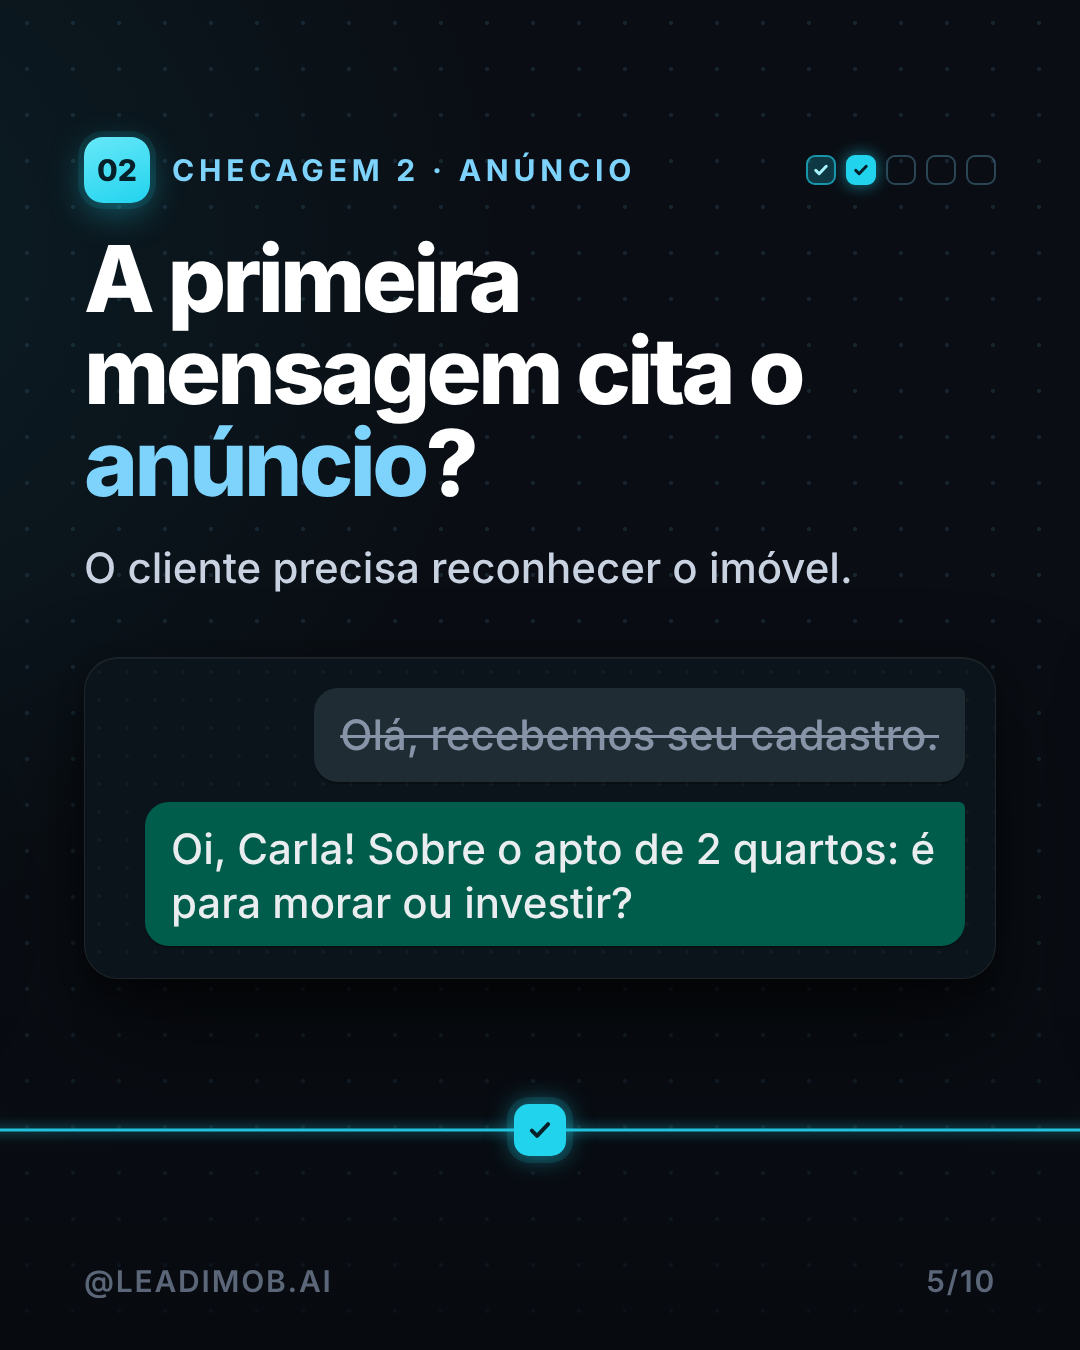
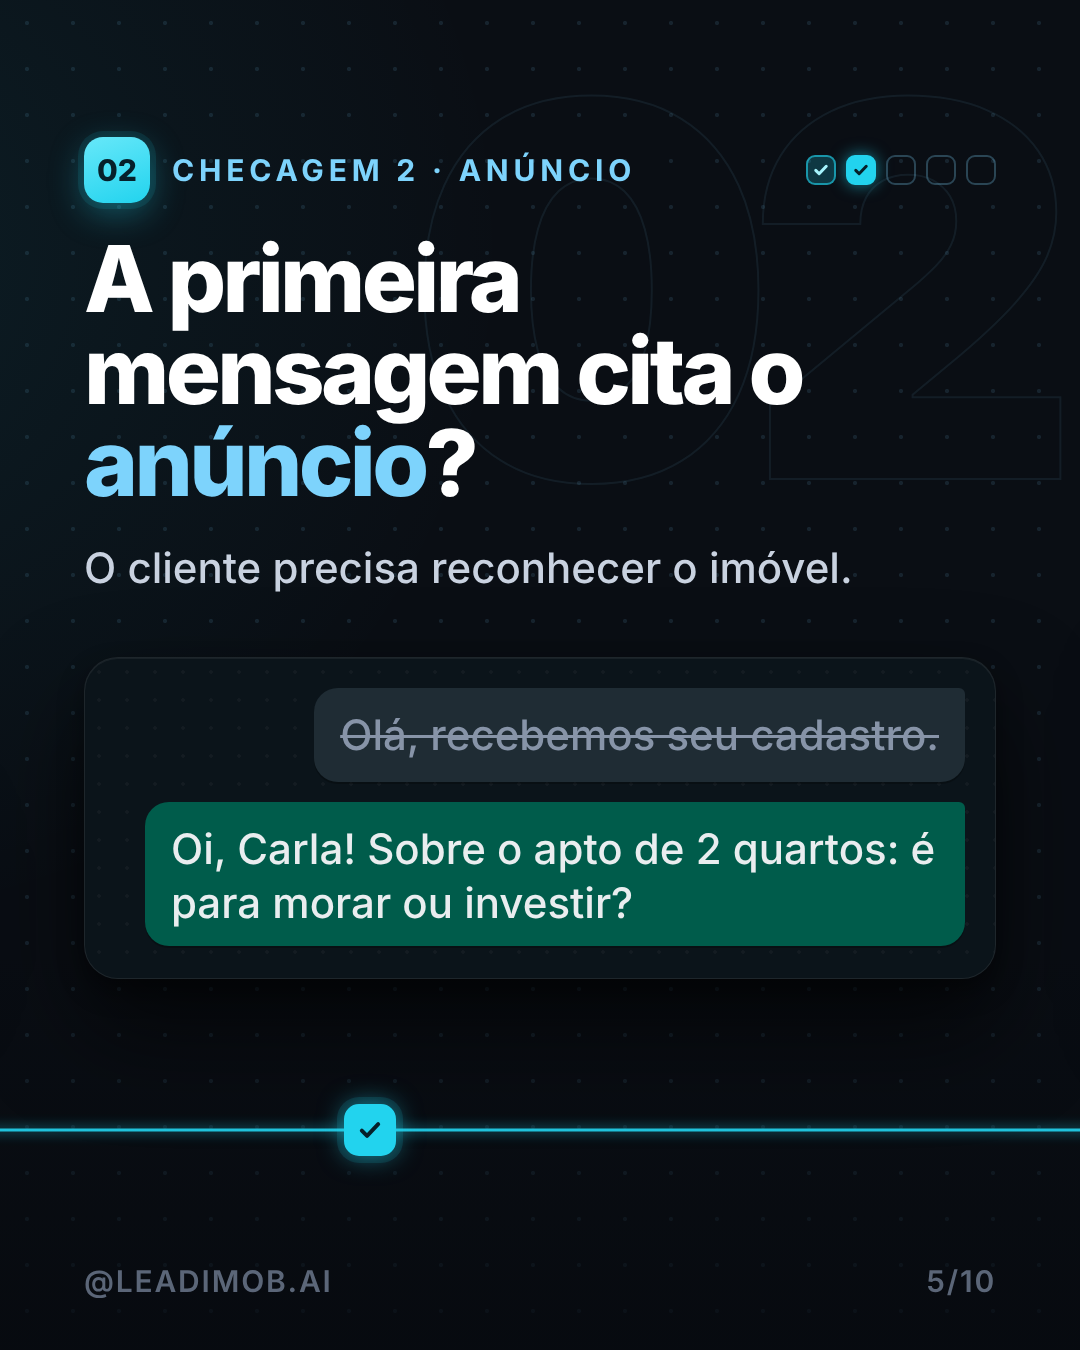
10/10: carrossel rodada 4 (em crítica final)
Claude-Session: https://claude.ai/code/session_016a8cwUDTswJAyhXi9pdNNX

Changed region(s): [[0.4583, 0.8089, 0.55, 0.8711], [0.3056, 0.8089, 0.3972, 0.8711]]

diff --git a/instagram/2026-10-10/src/c1-index.html b/instagram/2026-10-10/src/c1-index.html
@@ -120,11 +120,12 @@ body{background:#0A0E14;width:10800px;height:1350px;overflow:hidden;font-family:
 .ci:first-child{border-top:0}
 .ci .n{width:50px;height:50px;border-radius:14px;border:3px solid rgba(125,211,252,.55);display:flex;align-items:center;justify-content:center;font:800 30px/1 IN;color:#7DD3FC;flex:none}
 /* chat final */
-.chat{width:912px;padding:0 0 30px}
-.chat .top{display:flex;align-items:center;gap:20px;padding:16px 30px;background:#1F2C34;margin-bottom:26px}
+.chat{width:912px;padding:28px 0 16px}
+.chat .top{display:flex;align-items:center;gap:20px;padding:12px 30px;background:#1F2C34;margin-bottom:26px}
 .chat .top b{display:block;font:700 36px/1.1 IN;color:#E9EDEF}
 .chat .top em{display:block;font:500 30px/1.2 IN;color:#8696A0;font-style:normal}
-.chat .bub{font-size:38px;margin:0 30px 16px}
+.chat .bub{font-size:36px;margin:0 30px 14px;padding:16px 24px 12px}
+.chat .bout{margin-left:auto}
 </style></head><body><div id="strip">
 <div class="bg"></div>
 <div class="glow" style="left:-380px;top:-460px;width:1500px;height:1500px;background:radial-gradient(circle,rgba(37,99,235,.30),transparent 62%)"></div>
@@ -142,12 +143,12 @@ body{background:#0A0E14;width:10800px;height:1350px;overflow:hidden;font-family:
   <div class="ttl" style="margin:0"><div class="num"><svg width="32" height="32" viewBox="0 0 24 24" fill="none" stroke="#06202A" stroke-width="2.6" stroke-linecap="round" stroke-linejoin="round"><path d="M4 6h16M7 12h10M10 18h4"/></svg></div><div class="kick">Checklist</div></div>
   <span class="chip cy"><svg width="24" height="28" viewBox="0 0 20 24"><path d="M3 2h14v20l-7-5.500L3 22z" fill="#A5F3FC"/></svg>Salve este post</span>
  </div>
- <div class="card form" id="a-form" style="margin-top:56px">
+ <div class="card form" style="margin-top:56px">
   <div class="lab">Formulário do anúncio</div>
   <div class="fld"><b>Nome</b><span>Carla</span></div>
   <div class="btn">Enviar <svg width="30" height="30" viewBox="0 0 24 24"><path d="M3 12 L21 3 L14 21 L11 13 Z" fill="#fff"/></svg></div>
  </div>
- <div class="h1" style="margin-top:64px;font-size:104px;line-height:1.0">O lead preencheu.<br>Alguém <span style="color:transparent;-webkit-text-stroke:3px #7DD3FC">respondeu?</span></div>
+ <div class="h1" style="margin-top:64px;font-size:104px;line-height:1.0">O lead preencheu.<br>Alguém <span class="hl">respondeu?</span></div>
  <div class="p" style="margin-top:32px;font-size:42px;color:#E2E8F0">5 checagens para ver onde o lead do formulário trava.</div>
  <div class="foot"><span>@LEADIMOB.AI</span><span style="color:#7DD3FC">ARRASTE →</span></div></div>
 
@@ -180,7 +181,7 @@ body{background:#0A0E14;width:10800px;height:1350px;overflow:hidden;font-family:
  <div class="foot"><span>@LEADIMOB.AI</span><span>3/10</span></div></div>
 
 <!-- 4 checagem 1 -->
-<div class="sl" style="left:3240px;padding-top:216px">
+<div class="sl" style="left:3240px;padding-top:216px"><div class="ghost" style="-webkit-text-stroke-color:rgba(125,211,252,.08)">01</div>
  <div class="ttl" style="width:912px"><div class="num">01</div><div class="kick">Checagem 1 · aviso</div><div class="prog"><i class="on"><svg width="18" height="18" viewBox="0 0 24 24"><path d="M5 12.500l4.500 4.500L19 7" stroke="#06202A" stroke-width="4" fill="none" stroke-linecap="round" stroke-linejoin="round"/></svg></i><i></i><i></i><i></i><i></i></div></div>
  <div class="h2">O lead chega a <span class="hl">alguém</span> na hora?</div>
  <div class="p">Formulário enviado vira aviso no celular, não planilha para baixar depois.</div>
@@ -190,10 +191,10 @@ body{background:#0A0E14;width:10800px;height:1350px;overflow:hidden;font-family:
   <div style="font:600 38px/1.2 IN;color:#fff;margin-top:14px">Carla · apto de 2 quartos</div></div>
  </div>
  <div class="foot"><span>@LEADIMOB.AI</span><span>4/10</span></div></div>
-<div class="gate" style="left:3780px"><i><svg width="28" height="28" viewBox="0 0 24 24"><path d="M5 12.500l4.500 4.500L19 7" stroke="#06202A" stroke-width="3.4" fill="none" stroke-linecap="round" stroke-linejoin="round"/></svg></i></div>
+<div class="gate" style="left:3440px"><i><svg width="28" height="28" viewBox="0 0 24 24"><path d="M5 12.500l4.500 4.500L19 7" stroke="#06202A" stroke-width="3.4" fill="none" stroke-linecap="round" stroke-linejoin="round"/></svg></i></div>
 
 <!-- 5 checagem 2 -->
-<div class="sl" style="left:4320px">
+<div class="sl" style="left:4320px"><div class="ghost" style="-webkit-text-stroke-color:rgba(125,211,252,.08)">02</div>
  <div class="ttl" style="width:912px"><div class="num">02</div><div class="kick">Checagem 2 · anúncio</div><div class="prog"><i class="ok"><svg width="18" height="18" viewBox="0 0 24 24"><path d="M5 12.500l4.500 4.500L19 7" stroke="#A5F3FC" stroke-width="4" fill="none" stroke-linecap="round" stroke-linejoin="round"/></svg></i><i class="on"><svg width="18" height="18" viewBox="0 0 24 24"><path d="M5 12.500l4.500 4.500L19 7" stroke="#06202A" stroke-width="4" fill="none" stroke-linecap="round" stroke-linejoin="round"/></svg></i><i></i><i></i><i></i></div></div>
  <div class="h2">A primeira mensagem cita o <span class="hl">anúncio</span>?</div>
  <div class="p">O cliente precisa reconhecer o imóvel.</div>
@@ -202,24 +203,24 @@ body{background:#0A0E14;width:10800px;height:1350px;overflow:hidden;font-family:
   <div class="bub bout" style="padding:20px 26px 16px">Oi, Carla! Sobre o apto de 2 quartos: é para morar ou investir?</div>
  </div>
  <div class="foot"><span>@LEADIMOB.AI</span><span>5/10</span></div></div>
-<div class="gate" style="left:4860px"><i><svg width="28" height="28" viewBox="0 0 24 24"><path d="M5 12.500l4.500 4.500L19 7" stroke="#06202A" stroke-width="3.4" fill="none" stroke-linecap="round" stroke-linejoin="round"/></svg></i></div>
+<div class="gate" style="left:4690px"><i><svg width="28" height="28" viewBox="0 0 24 24"><path d="M5 12.500l4.500 4.500L19 7" stroke="#06202A" stroke-width="3.4" fill="none" stroke-linecap="round" stroke-linejoin="round"/></svg></i></div>
 
 <!-- 6 checagem 3 -->
-<div class="sl" style="left:5400px">
+<div class="sl" style="left:5400px"><div class="ghost" style="-webkit-text-stroke-color:rgba(125,211,252,.08)">03</div>
  <div class="ttl" style="width:912px"><div class="num">03</div><div class="kick">Checagem 3 · horário</div><div class="prog"><i class="ok"><svg width="18" height="18" viewBox="0 0 24 24"><path d="M5 12.500l4.500 4.500L19 7" stroke="#A5F3FC" stroke-width="4" fill="none" stroke-linecap="round" stroke-linejoin="round"/></svg></i><i class="ok"><svg width="18" height="18" viewBox="0 0 24 24"><path d="M5 12.500l4.500 4.500L19 7" stroke="#A5F3FC" stroke-width="4" fill="none" stroke-linecap="round" stroke-linejoin="round"/></svg></i><i class="on"><svg width="18" height="18" viewBox="0 0 24 24"><path d="M5 12.500l4.500 4.500L19 7" stroke="#06202A" stroke-width="4" fill="none" stroke-linecap="round" stroke-linejoin="round"/></svg></i><i></i><i></i></div></div>
  <div class="h2">Alguém responde às <span class="hl">22h</span>?</div>
  <div class="p">O formulário chega quando o cliente tem tempo: à noite, no fim de semana.</div>
  <div class="card day24 art">
   <div class="lab">Quando o formulário chegou</div>
   <div class="bar" style="height:56px;border-radius:16px;margin-top:110px"><div class="biz" style="left:37.5%;width:37.5%;border-radius:16px;display:flex;align-items:center;justify-content:center;font:600 30px/1 IN;color:#E0F2FE;white-space:nowrap">horário comercial</div>
-   <div class="pin" style="left:94.9%;top:-90px;transform:translateX(-82%)"><span class="chip cy">Carla · 22:47</span><i style="margin-left:64%"></i><u style="margin-left:64%"></u></div></div>
+   <div class="pin" style="left:calc(94.9% - 20px);top:-90px;transform:translateX(-82%)"><span class="chip cy">Carla · 22:47</span><i style="margin-left:64%"></i><u style="margin-left:64%"></u></div></div>
   <div class="tks"><span style="left:2%">0h</span><span style="left:37.5%">9h</span><span style="left:75%">18h</span><span style="left:97%">24h</span></div>
  </div>
  <div class="foot"><span>@LEADIMOB.AI</span><span>6/10</span></div></div>
 <div class="gate" style="left:5940px"><i><svg width="28" height="28" viewBox="0 0 24 24"><path d="M5 12.500l4.500 4.500L19 7" stroke="#06202A" stroke-width="3.4" fill="none" stroke-linecap="round" stroke-linejoin="round"/></svg></i></div>
 
 <!-- 7 checagem 4 -->
-<div class="sl" style="left:6480px;padding-top:236px">
+<div class="sl" style="left:6480px;padding-top:236px"><div class="ghost" style="-webkit-text-stroke-color:rgba(125,211,252,.08)">04</div>
  <div class="ttl" style="width:912px"><div class="num">04</div><div class="kick">Checagem 4 · perguntas</div><div class="prog"><i class="ok"><svg width="18" height="18" viewBox="0 0 24 24"><path d="M5 12.500l4.500 4.500L19 7" stroke="#A5F3FC" stroke-width="4" fill="none" stroke-linecap="round" stroke-linejoin="round"/></svg></i><i class="ok"><svg width="18" height="18" viewBox="0 0 24 24"><path d="M5 12.500l4.500 4.500L19 7" stroke="#A5F3FC" stroke-width="4" fill="none" stroke-linecap="round" stroke-linejoin="round"/></svg></i><i class="ok"><svg width="18" height="18" viewBox="0 0 24 24"><path d="M5 12.500l4.500 4.500L19 7" stroke="#A5F3FC" stroke-width="4" fill="none" stroke-linecap="round" stroke-linejoin="round"/></svg></i><i class="on"><svg width="18" height="18" viewBox="0 0 24 24"><path d="M5 12.500l4.500 4.500L19 7" stroke="#06202A" stroke-width="4" fill="none" stroke-linecap="round" stroke-linejoin="round"/></svg></i><i></i></div></div>
  <div class="h2">Alguém pergunta <span class="hl">antes</span> de mandar imóveis?</div>
  <div class="p">As respostas dizem o que vale enviar.</div>
@@ -227,13 +228,13 @@ body{background:#0A0E14;width:10800px;height:1350px;overflow:hidden;font-family:
   <div class="q nt"><svg width="34" height="34" viewBox="0 0 24 24"><path d="M5 12.500l4.500 4.500L19 7" stroke="#22D3EE" stroke-width="3" fill="none" stroke-linecap="round" stroke-linejoin="round"/></svg>Morar ou investir?</div>
   <div class="q nt"><svg width="34" height="34" viewBox="0 0 24 24"><path d="M5 12.500l4.500 4.500L19 7" stroke="#22D3EE" stroke-width="3" fill="none" stroke-linecap="round" stroke-linejoin="round"/></svg>Qual região?</div>
   <div class="q nt"><svg width="34" height="34" viewBox="0 0 24 24"><path d="M5 12.500l4.500 4.500L19 7" stroke="#22D3EE" stroke-width="3" fill="none" stroke-linecap="round" stroke-linejoin="round"/></svg>Até quanto?</div>
-  <div class="q nt"><svg width="34" height="34" viewBox="0 0 24 24"><path d="M5 12.500l4.500 4.500L19 7" stroke="#22D3EE" stroke-width="3" fill="none" stroke-linecap="round" stroke-linejoin="round"/></svg>Para quando?</div>
+  <div class="q nt"><svg width="34" height="34" viewBox="0 0 24 24"><path d="M5 12.500l4.500 4.500L19 7" stroke="#22D3EE" stroke-width="3" fill="none" stroke-linecap="round" stroke-linejoin="round"/></svg>Quantos quartos?</div>
  </div>
  <div class="foot"><span>@LEADIMOB.AI</span><span>7/10</span></div></div>
-<div class="gate" style="left:7020px"><i><svg width="28" height="28" viewBox="0 0 24 24"><path d="M5 12.500l4.500 4.500L19 7" stroke="#06202A" stroke-width="3.4" fill="none" stroke-linecap="round" stroke-linejoin="round"/></svg></i></div>
+<div class="gate" style="left:7190px"><i><svg width="28" height="28" viewBox="0 0 24 24"><path d="M5 12.500l4.500 4.500L19 7" stroke="#06202A" stroke-width="3.4" fill="none" stroke-linecap="round" stroke-linejoin="round"/></svg></i></div>
 
 <!-- 8 checagem 5 -->
-<div class="sl" style="left:7560px">
+<div class="sl" style="left:7560px"><div class="ghost" style="-webkit-text-stroke-color:rgba(125,211,252,.08)">05</div>
  <div class="ttl" style="width:912px"><div class="num">05</div><div class="kick">Checagem 5 · dono</div><div class="prog"><i class="ok"><svg width="18" height="18" viewBox="0 0 24 24"><path d="M5 12.500l4.500 4.500L19 7" stroke="#A5F3FC" stroke-width="4" fill="none" stroke-linecap="round" stroke-linejoin="round"/></svg></i><i class="ok"><svg width="18" height="18" viewBox="0 0 24 24"><path d="M5 12.500l4.500 4.500L19 7" stroke="#A5F3FC" stroke-width="4" fill="none" stroke-linecap="round" stroke-linejoin="round"/></svg></i><i class="ok"><svg width="18" height="18" viewBox="0 0 24 24"><path d="M5 12.500l4.500 4.500L19 7" stroke="#A5F3FC" stroke-width="4" fill="none" stroke-linecap="round" stroke-linejoin="round"/></svg></i><i class="ok"><svg width="18" height="18" viewBox="0 0 24 24"><path d="M5 12.500l4.500 4.500L19 7" stroke="#A5F3FC" stroke-width="4" fill="none" stroke-linecap="round" stroke-linejoin="round"/></svg></i><i class="on"><svg width="18" height="18" viewBox="0 0 24 24"><path d="M5 12.500l4.500 4.500L19 7" stroke="#06202A" stroke-width="4" fill="none" stroke-linecap="round" stroke-linejoin="round"/></svg></i></div></div>
  <div class="h2">Cada lead tem <span class="hl">dono</span> e próximo passo?</div>
  <div class="p">Sem isso, ele volta para a planilha.</div>
@@ -243,51 +244,59 @@ body{background:#0A0E14;width:10800px;height:1350px;overflow:hidden;font-family:
   <div class="kv"><b>Próximo passo</b><span class="chip nt" style="font-size:32px">Enviar fotos hoje</span></div>
  </div>
  <div class="foot"><span>@LEADIMOB.AI</span><span>8/10</span></div></div>
-<div class="gate" style="left:8100px"><i><svg width="28" height="28" viewBox="0 0 24 24"><path d="M5 12.500l4.500 4.500L19 7" stroke="#06202A" stroke-width="3.4" fill="none" stroke-linecap="round" stroke-linejoin="round"/></svg></i></div>
+<div class="gate" style="left:8440px"><i><svg width="28" height="28" viewBox="0 0 24 24"><path d="M5 12.500l4.500 4.500L19 7" stroke="#06202A" stroke-width="3.4" fill="none" stroke-linecap="round" stroke-linejoin="round"/></svg></i></div>
 
 <!-- 9 produto -->
 <div class="sl" style="left:8640px">
  <div class="ttl"><div class="num"><svg width="34" height="34" viewBox="0 0 24 24"><path d="M12 3c5 0 9 3.600 9 8.200S17 19.500 12 19.500c-1 0-2-.15-2.900-.42L4.500 21l1.200-3.900C4 15.600 3 13.500 3 11.200 3 6.600 7 3 12 3z" fill="#06202A"/></svg></div><div class="kick">Onde a Leadimob entra</div></div>
- <div class="h2">Formulário enviado. <span style="color:#6EE7B7">Conversa iniciada.</span></div>
+ <div class="h2" style="font-size:84px">Formulário enviado. <span style="color:#6EE7B7">Conversa iniciada.</span></div>
  <div class="p">A Leadimob puxa a conversa no seu WhatsApp na hora, 24h, citando o anúncio.</div>
- <div class="wa chat art" id="a-chat" style="margin-top:44px">
-  <div class="top"><div class="av" style="width:64px;height:64px;font-size:30px">C</div><div><b>Carla</b><em>online</em></div></div>
+ <div class="wa chat art" id="a-chat" style="margin-top:40px">
+  <div class="bub bout">Oi, Carla! Sobre o apto de 2 quartos do anúncio: é para morar ou investir?<div class="bt">22:47 <svg class="tk" viewBox="0 0 34 22"><path d="M2 12l6 6L20 4M14 18l12-14" stroke="#53BDEB" stroke-width="3" fill="none" stroke-linecap="round" stroke-linejoin="round"/></svg></div></div>
   <div class="bub bin">Para morar. Pode mandar as fotos?<div class="bt">22:48</div></div>
-  <div class="bub bout">Claro! E qual região você prefere?<div class="bt">22:48 <svg class="tk" viewBox="0 0 34 22"><path d="M2 12l6 6L20 4M14 18l12-14" stroke="#53BDEB" stroke-width="3" fill="none" stroke-linecap="round" stroke-linejoin="round"/></svg></div></div>
+  <div class="bub bout">Claro! Já te envio. Quer visitar esta semana?<div class="bt">22:48 <svg class="tk" viewBox="0 0 34 22"><path d="M2 12l6 6L20 4M14 18l12-14" stroke="#53BDEB" stroke-width="3" fill="none" stroke-linecap="round" stroke-linejoin="round"/></svg></div></div>
  </div>
  <div class="foot"><span>@LEADIMOB.AI</span><span>9/10</span></div></div>
 
-<!-- 10 CTA: composição centrada -->
-<div class="sl" style="left:9720px;padding-bottom:170px;align-items:center;text-align:center">
- <div style="width:330px;height:104px;border-radius:24px;background:#F3F7FB;display:flex;align-items:center;justify-content:center;box-shadow:0 20px 44px rgba(0,0,0,.5)"><img src="logo.png" style="width:260px"></div>
- <div class="h2" style="margin-top:64px">Onde o lead do formulário <span class="hl">trava</span>?</div>
- <div style="margin-top:56px;width:912px;height:132px;border-radius:66px;background:#141B28;border:2px solid rgba(125,211,252,.45);box-shadow:0 0 0 8px rgba(34,211,238,.06),0 30px 70px rgba(0,0,0,.55);display:flex;align-items:center;padding:0 22px 0 40px;gap:16px;font:600 44px IN">
+<!-- 10 CTA -->
+<div class="sl" style="left:9720px;padding-bottom:250px">
+ <div class="ttl"><div class="num"><svg width="32" height="32" viewBox="0 0 24 24"><path d="M5 12.500l4.500 4.500L19 7" stroke="#06202A" stroke-width="3" fill="none" stroke-linecap="round" stroke-linejoin="round"/></svg></div><div class="kick">Sua vez</div></div>
+ <div class="h2">Onde o lead do formulário <span class="hl">trava</span>?</div>
+ <div id="a-field" style="margin-top:56px;height:132px;border-radius:66px;background:#141B28;border:2px solid rgba(125,211,252,.45);box-shadow:0 0 0 8px rgba(34,211,238,.06),0 30px 70px rgba(0,0,0,.55);display:flex;align-items:center;padding:0 22px 0 40px;gap:16px;font:600 44px IN">
   <span style="color:#7C8799">Comente</span><span style="font-weight:900;letter-spacing:.02em">CHECAGEM</span><span style="width:4px;height:52px;background:#22D3EE;border-radius:2px"></span>
-  <span style="margin-left:auto;width:92px;height:92px;border-radius:50%;background:#2563EB;display:flex;align-items:center;justify-content:center;box-shadow:0 10px 30px rgba(37,99,235,.55)"><svg width="42" height="42" viewBox="0 0 24 24"><path d="M3 12 L21 3 L14 21 L11 13 Z" fill="#fff"/></svg></span>
+  <span id="a-send" style="margin-left:auto;width:92px;height:92px;border-radius:50%;background:#2563EB;display:flex;align-items:center;justify-content:center;box-shadow:0 10px 30px rgba(37,99,235,.55)"><svg width="42" height="42" viewBox="0 0 24 24"><path d="M3 12 L21 3 L14 21 L11 13 Z" fill="#fff"/></svg></span>
  </div>
- <div class="p" style="margin-top:34px">e conte qual delas falha hoje na sua operação.</div>
- <div style="margin-top:44px;font:600 32px/1.3 IN;color:#7DD3FC">Solicite uma demonstração · link na bio</div>
+ <div class="p" style="margin-top:34px">e conte qual delas falha hoje<br>na sua operação.</div>
+ <div style="margin-top:56px;display:flex;align-items:center;gap:22px">
+  <div style="width:300px;height:96px;border-radius:22px;background:#F3F7FB;display:flex;align-items:center;justify-content:center;box-shadow:0 20px 44px rgba(0,0,0,.5)"><img src="logo.png" style="width:240px"></div>
+  <div style="font:700 34px/1 IN;color:#7DD3FC">@leadimob.ai</div>
+ </div>
+ <div style="margin-top:30px;font:600 32px/1.3 IN;color:#7C8799">Solicite uma demonstração · link na bio</div>
  <div class="foot"><span>@LEADIMOB.AI</span><span>10/10</span></div></div>
 </div>
 <script>
-// O fio: sai da borda direita do formulário (capa), desce até a linha e trava no nó âmbar do slide 2 (planilha);
-// reconecta no slide 3 (o teste), passa pelas 5 checagens (slides 4–8) e no slide 9 sobe, verde, e entra na conversa.
+// O fio: na capa corre na linha e sai pela direita; trava no nó âmbar do slide 2 (planilha);
+// recomeça num ponto vazio no slide 3 (checklist), passa pelos nós acesos das 5 checagens (slides 4–8, o nó anda
+// com o progresso), sobe verde até a conversa no slide 9 e segue fino até o botão do comentário no slide 10.
 function fio(){
  const S=document.getElementById('fio'),st=document.getElementById('strip').getBoundingClientRect();
  const r=id=>{const b=document.getElementById(id).getBoundingClientRect();return{x:b.left-st.left,y:b.top-st.top,w:b.width,h:b.height}};
- const Y=1130,f=r('a-form'),c=r('a-chat'),R=40;
- const fx=f.x+f.w,fy=f.y+f.h/2, cx=c.x+c.w/2, cy=c.y+c.h;
- const ns='http://www.w3.org/2000/svg';
+ const Y=1130,c=r('a-chat'),b=r('a-send'),fl=r('a-field'),R=40;
+ const cx=c.x+c.w/2, cy=c.y+c.h, bx=b.x+b.w/2, by=fl.y+fl.h, X0=2340;
  S.innerHTML=`<defs>
- <linearGradient id="g1" gradientUnits="userSpaceOnUse" x1="0" x2="1840" y1="0" y2="0"><stop offset="0" stop-color="#22D3EE"/><stop offset="1" stop-color="#22D3EE"/></linearGradient>
- <linearGradient id="g2" gradientUnits="userSpaceOnUse" x1="2160" x2="9200" y1="0" y2="0"><stop offset="0" stop-color="#22D3EE" stop-opacity="0"/><stop offset=".06" stop-color="#22D3EE" stop-opacity=".9"/><stop offset=".92" stop-color="#22D3EE" stop-opacity=".9"/><stop offset="1" stop-color="#34D399" stop-opacity=".9"/></linearGradient>
+ <linearGradient id="g1" gradientUnits="userSpaceOnUse" x1="0" x2="1840" y1="0" y2="0"><stop offset="0" stop-color="#22D3EE" stop-opacity="0"/><stop offset=".12" stop-color="#22D3EE"/><stop offset="1" stop-color="#22D3EE"/></linearGradient>
+ <linearGradient id="g2" gradientUnits="userSpaceOnUse" x1="${X0}" x2="9200" y1="0" y2="0"><stop offset="0" stop-color="#22D3EE" stop-opacity=".9"/><stop offset=".92" stop-color="#22D3EE" stop-opacity=".9"/><stop offset="1" stop-color="#34D399" stop-opacity=".9"/></linearGradient>
  <filter id="gl" x="-5%" y="-50%" width="110%" height="200%"><feGaussianBlur stdDeviation="6"/></filter></defs>`;
- const X1=1040,d1=`M${fx},${fy} H${X1-R} Q${X1},${fy} ${X1},${fy+R} V${Y-R} Q${X1},${Y} ${X1+R},${Y} H1824`;
- const d2=`M2160,${Y} H${cx-R} Q${cx},${Y} ${cx},${Y-R} V${cy}`;
- for(const[d,g,dash]of[[d1,'g1',''],[d2,'g2','']]){
+ const d1=`M0,${Y} H1824`;
+ const d2=`M${X0+14},${Y} H${cx-R} Q${cx},${Y} ${cx},${Y-R} V${cy}`;
+ const d3=`M${cx},${Y} H${bx-R} Q${bx},${Y} ${bx},${Y-R} V${by}`;
+ for(const[d,g]of[[d1,'g1'],[d2,'g2']]){
   S.insertAdjacentHTML('beforeend',`<path d="${d}" fill="none" stroke="url(#${g})" stroke-width="8" opacity=".35" filter="url(#gl)"/><path d="${d}" fill="none" stroke="url(#${g})" stroke-width="3" stroke-linecap="round"/>`)}
- // ponto de chegada na conversa
+ S.insertAdjacentHTML('beforeend',`<path d="${d3}" fill="none" stroke="#34D399" stroke-opacity=".55" stroke-width="2"/>`);
+ // ponto vazio de início (slide 3) e chegadas (conversa, comentário)
+ S.insertAdjacentHTML('beforeend',`<circle cx="${X0}" cy="${Y}" r="12" fill="#0A0E14" stroke="#22D3EE" stroke-opacity=".6" stroke-width="3"/>`);
  S.insertAdjacentHTML('beforeend',`<circle cx="${cx}" cy="${cy}" r="9" fill="#34D399"/><circle cx="${cx}" cy="${cy}" r="18" fill="none" stroke="#34D399" stroke-opacity=".35" stroke-width="3"/>`);
+ S.insertAdjacentHTML('beforeend',`<circle cx="${bx}" cy="${by}" r="7" fill="#34D399"/>`);
 }
 window.ready=document.fonts.ready.then(()=>Promise.all(['400 20px IN','500 20px IN','600 20px IN','700 20px IN','800 20px IN','900 20px IN'].map(f=>document.fonts.load(f)))).then(()=>Promise.all([...document.images].map(i=>i.decode().catch(()=>0)))).then(()=>{fio()}).then(()=>new Promise(r=>setTimeout(r,300)));
 </script></body></html>
